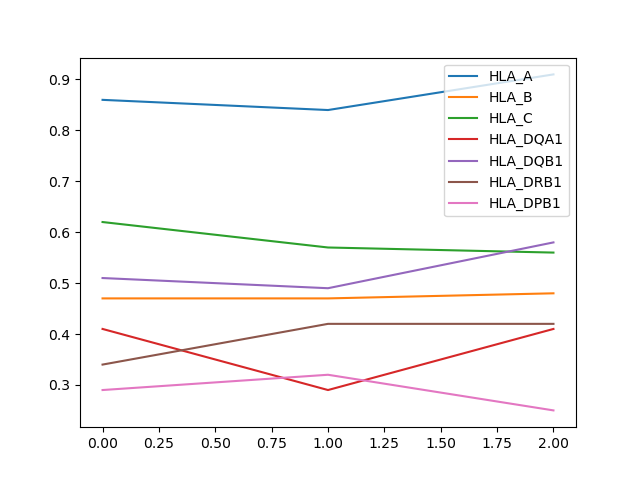
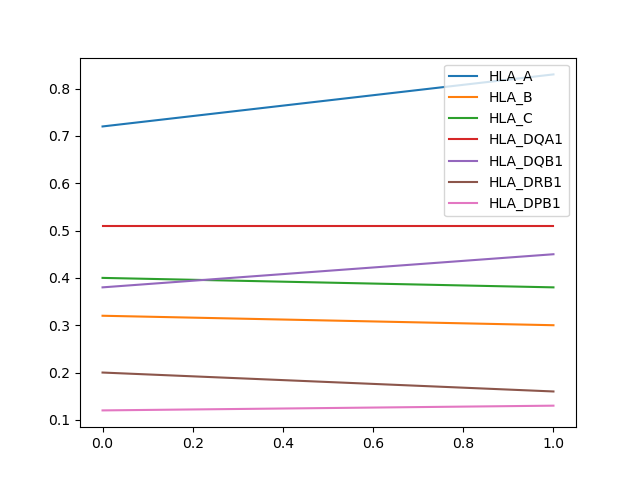
Add metric evaluation

diff --git a/two_col_training.py b/two_col_training.py
@@ -1,9 +1,11 @@
 from src.data_helper import *
 from models.SharedNet2D import SharedNet2D
 import argparse		# Thư viện giúp tạo định nghĩa command line trong terminal
-
+import os
 from sklearn.model_selection import StratifiedKFold
-
+import matplotlib.pyplot as plt
+import matplotlib
+matplotlib.use('AGG')
 from src.trainer import Trainer
 
 def parse_args():
@@ -13,8 +15,8 @@ def parse_args():
     parser.add_argument('--output-path', type=str, default='output')
     parser.add_argument('-l', '--loss', type=str, default='bce')
     parser.add_argument('-o', '--optimizer', type=str, default='adam')
-    parser.add_argument('-k', '--k-fold', type=int, default=10)
-    parser.add_argument('-e', '--epochs', type=int, default=200)
+    parser.add_argument('-k', '--k-fold', type=int, default=2)
+    parser.add_argument('-e', '--epochs', type=int, default=2)
     parser.add_argument('--lr', type=float, default=0.005)
     parser.add_argument('-b', '--batch-size', type=int, default=64)
     parser.add_argument('-n', '--n-repeats', type=int, default=1)
@@ -29,7 +31,17 @@ def parse_args():
 def save_acc(accuracy, name_acc):
     with open(str(parse_args().output_path) + "/kfold_acc.txt", 'a') as f:
         f.writelines(name_acc + str(accuracy)+"\n")
-
+def plot_box_plot(accuracy_folds):
+    mean = np.mean(accuracy_folds, axis = 0)
+    std = np.std(accuracy_folds,axis=0)
+    name=['HLA_A','HLA_B','HLA_C','HLA_DQA1','HLA_DQB1','HLA_DRB1','HLA_DPB1']
+    fig = plt.figure()
+    plt.errorbar(name,mean,std,ls='none')
+    plt.show()
+    out_dir = 'output/evaluation'
+    if not os.path.exists(out_dir):
+        os.makedirs(out_dir)
+    fig.savefig(out_dir+"/Evaluation_Metric.png")
 def main():
     args = parse_args()
     ''' load csv file '''
@@ -82,7 +94,9 @@ def main():
         fold +=1
 
     print("\nAverage accuracy:  ", np.mean(accuracy_folds, axis=0))
+    print("\nStandart variation: ",np.std(accuracy_folds, axis=0))
     save_acc(np.mean(accuracy_folds, axis = 0), "\nAverage accuracy:  ")
-
+    save_acc(np.std(accuracy_folds, axis = 0), "\nStandart variation:  ")
+    plot_box_plot(accuracy_folds)
 if __name__ == "__main__":
     main()
